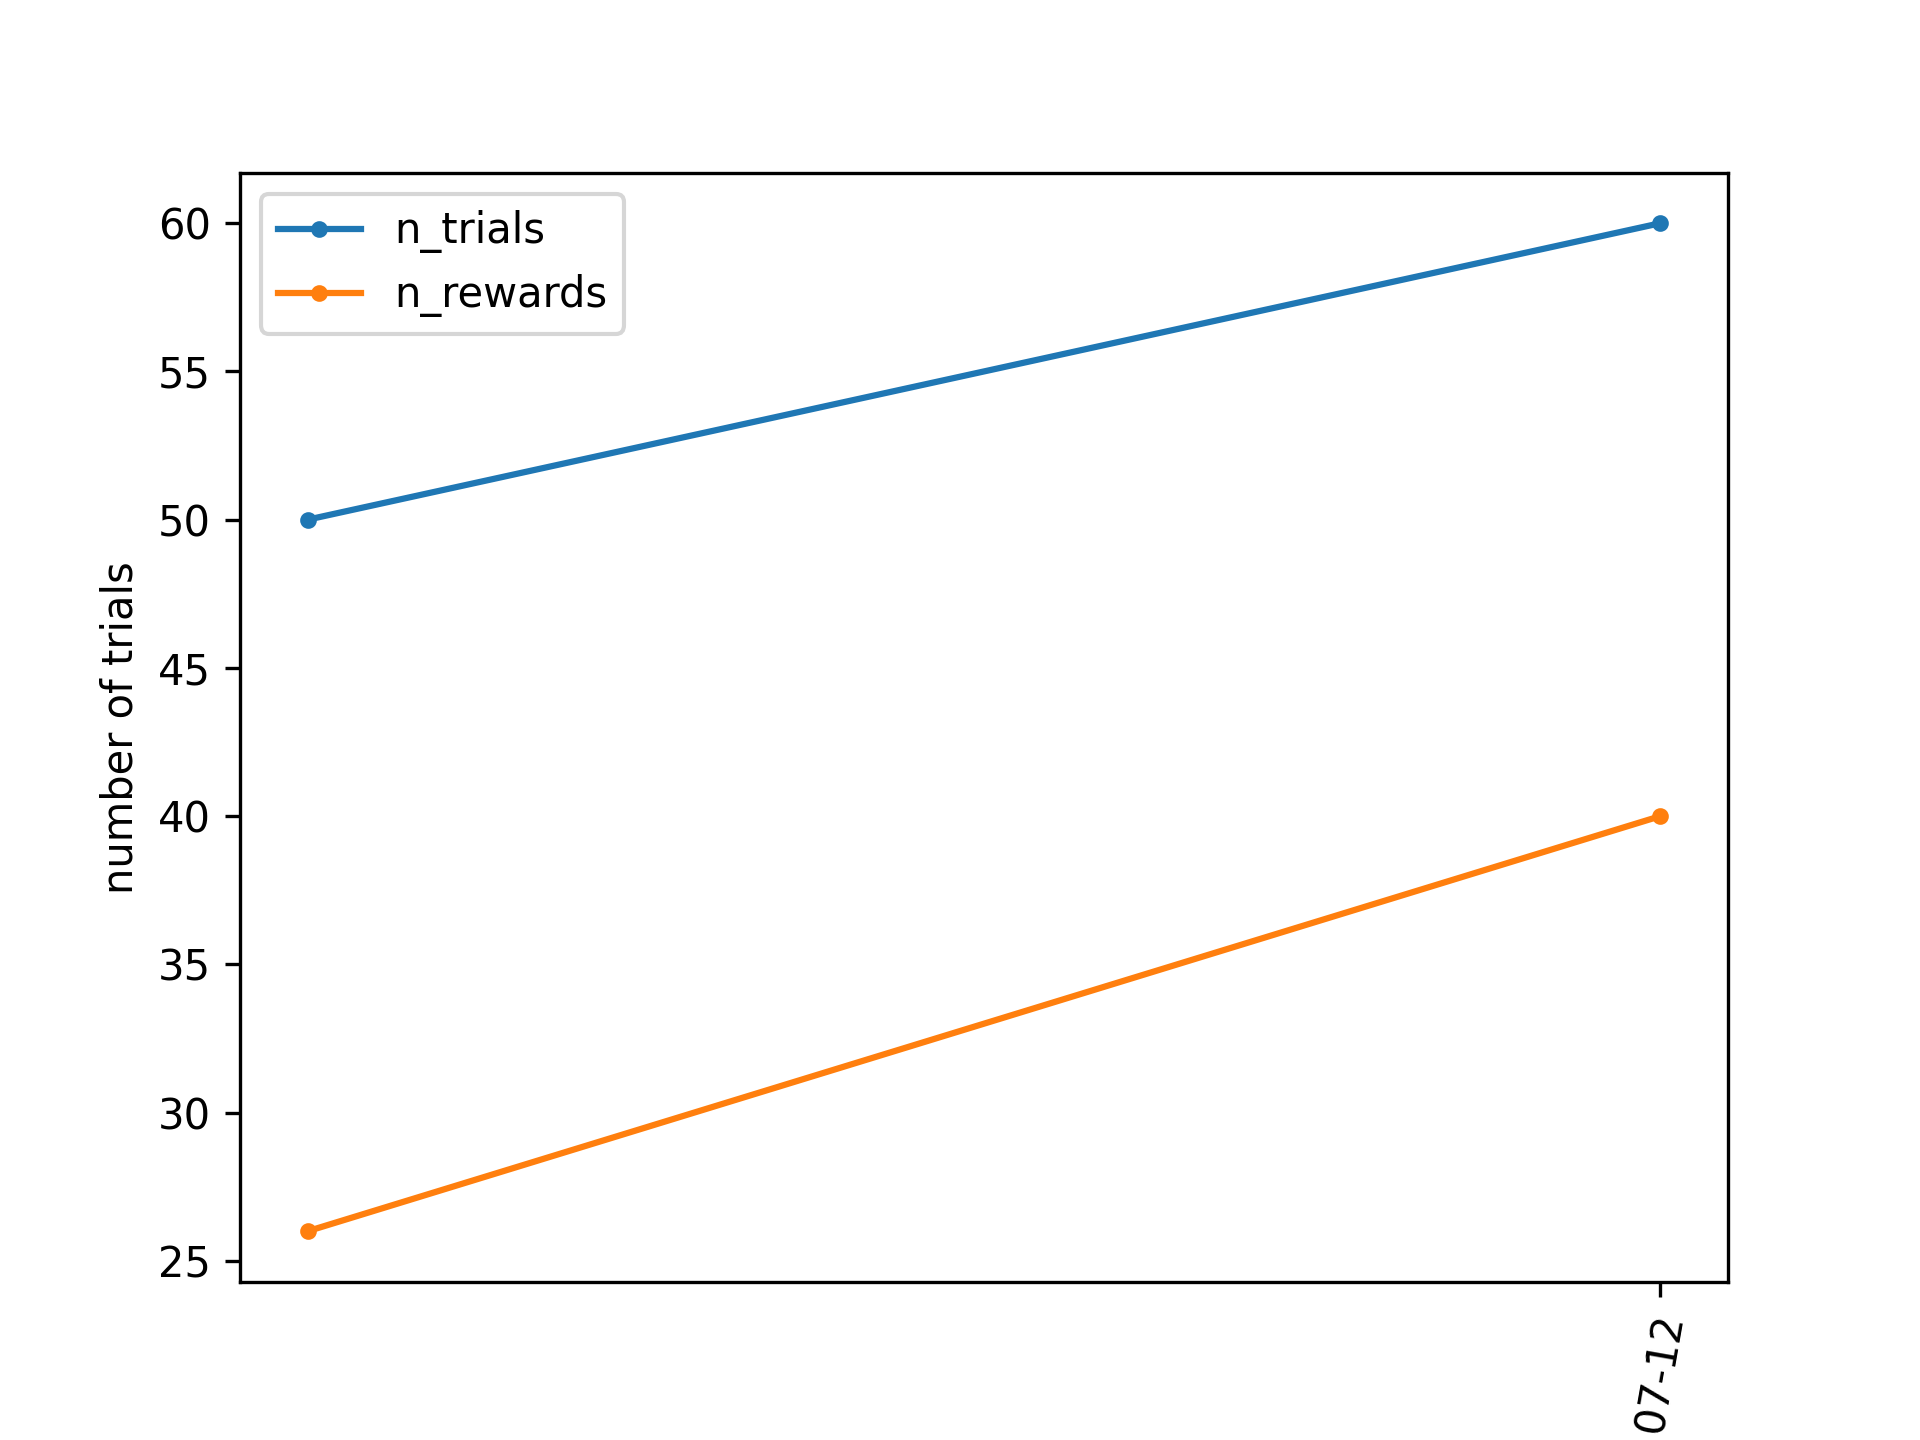
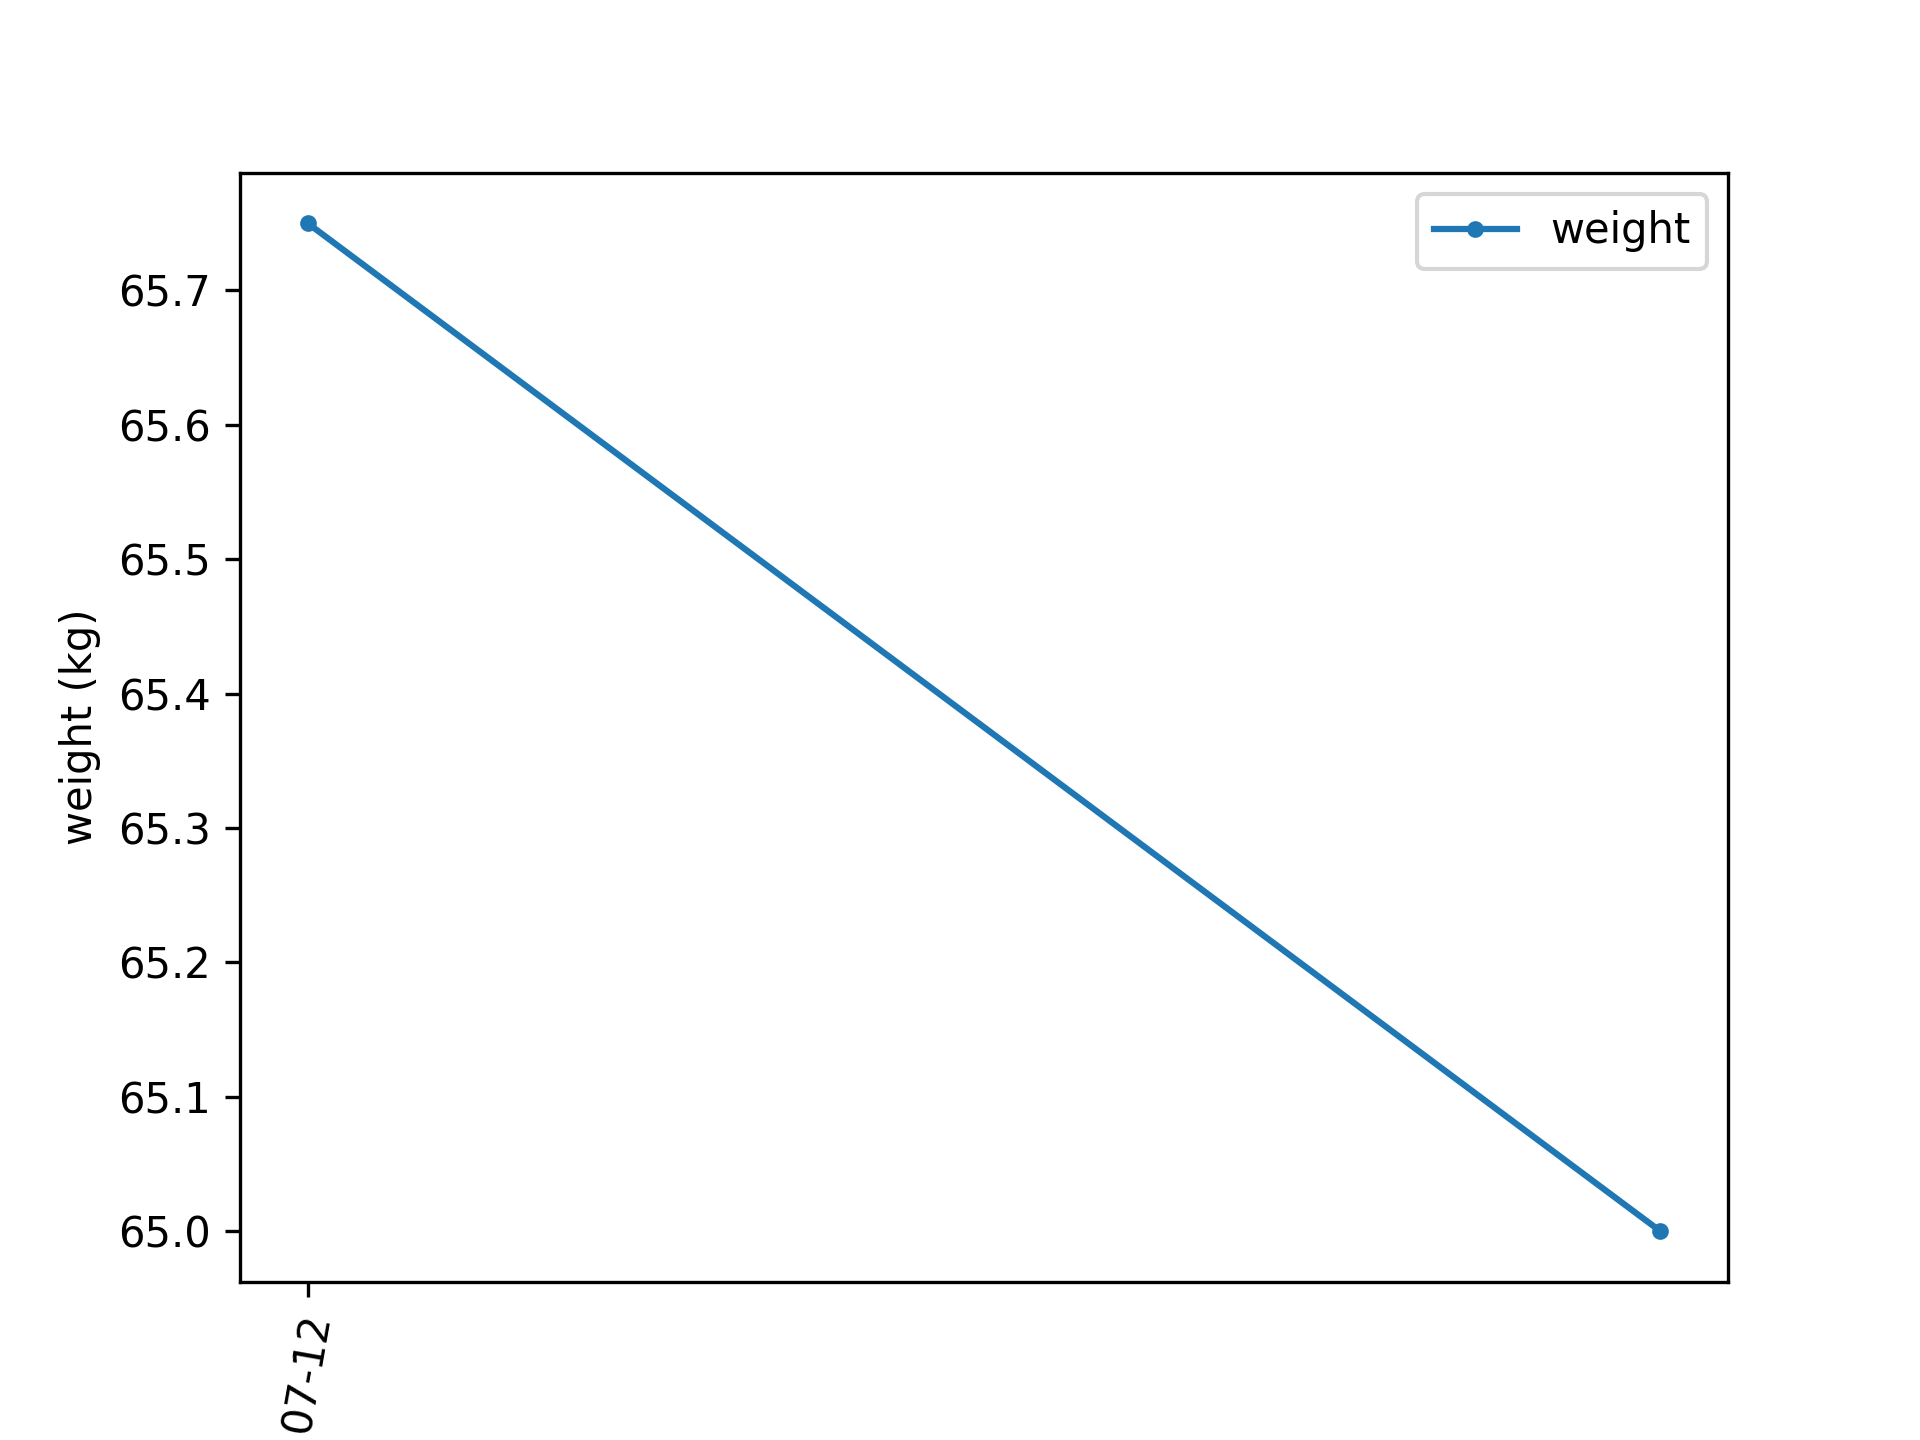
update example

diff --git a/aopy/visualization.py b/aopy/visualization.py
@@ -415,21 +415,22 @@ def plot_trajectories(trajectories, bounds=None, ax=None):
 def plot_columns_by_date(df, *columns, method='sum', ax=None):
     '''
     Plot columns in a dataframe organized by date and aggregated such that if there are multiple
-    rows on a given date they are combined into a single value using the given method
+    rows on a given date they are combined into a single value using the given method. If the method
+    is 'mean' then the values will be averaged for each day, for example for size of cursor. If the 
+    method is 'sum' then the values will be added together on each day, for example for number of trials.
     
     Example:
-        Plotting number of trials and number of rewards on two days of data, summing across days.
+        Plotting my weight data averaged across days.
         ::
 
             from datetime import date, timedelta
             date = [date.today() - timedelta(days=1), date.today() - timedelta(days=1), date.today()]
-            n_trials = [40, 10, 60]
-            n_rewards = [20, 6, 40]
+            weight = [65.5, 66.0, 65.0]
 
-            df = pd.DataFrame({'date':date, 'n_trials':n_trials, 'n_rewards':n_rewards})
+            df = pd.DataFrame({'date':date, 'weight':weight})
             fig, ax = plt.subplots(1,1)
-            plot_columns_by_date(df, 'n_trials', 'n_rewards', method='sum', ax=ax)
-            ax.set_ylabel('number of trials')
+            plot_columns_by_date(df, 'weight', method='mean', ax=ax)
+            ax.set_ylabel('weight (kg)')
 
         ..image: _images/columns_by_date.png
 

diff --git a/tests/test_visualization.py b/tests/test_visualization.py
@@ -157,17 +157,15 @@ class OtherPlottingTests(unittest.TestCase):
     def test_plot_columns_by_date(self):
         from datetime import date, timedelta
         date = [date.today() - timedelta(days=1), date.today() - timedelta(days=1), date.today()]
-        n_trials = [40, 10, 60]
-        n_rewards = [20, 6, 40]
+        weight = [65.5, 66.0, 65.0]
 
-        df = pd.DataFrame({'date':date, 'n_trials':n_trials, 'n_rewards':n_rewards})
+        df = pd.DataFrame({'date':date, 'weight':weight})
         fig, ax = plt.subplots(1,1)
-        plot_columns_by_date(df, 'n_trials', 'n_rewards', method='sum', ax=ax)
-        ax.set_ylabel('number of trials')
+        plot_columns_by_date(df, 'weight', method='mean', ax=ax)
+        ax.set_ylabel('weight (kg)')
 
         filename = 'columns_by_date.png'
-        savefig(write_dir, filename) # expect 50 (25) trials (rewards) yesterday and 60 (40) today
-
+        savefig(write_dir, filename) # expect a plot of weight by date
 
 
 if __name__ == "__main__":
